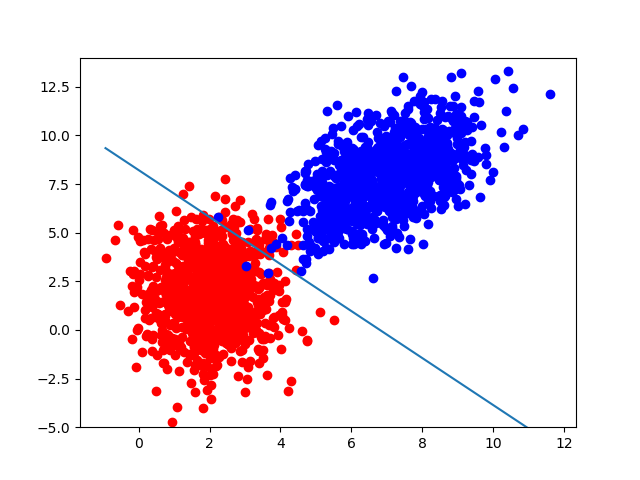
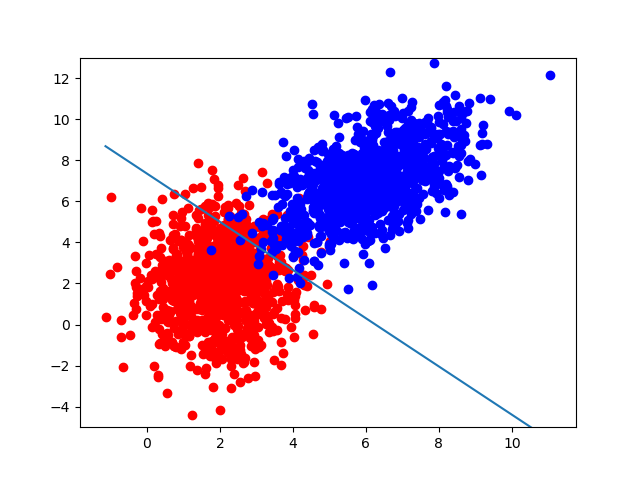
fix

diff --git a/scripts/create_data.py b/scripts/create_data.py
@@ -19,15 +19,9 @@ def main():
     test_sample_num = 200
     data_name = "fake1"
     data1 = np.random.multivariate_normal([2, 2], [[1, 0], [0, 4]], [train_sample_num])
-<<<<<<< HEAD
-    data2 = np.random.multivariate_normal([6, 7], [[2, 2], [1, 3]], [train_sample_num])
-    data3 = np.random.multivariate_normal([2, 2], [[1, 0], [0, 4]], [test_sample_num])
-    data4 = np.random.multivariate_normal([6, 7], [[2, 2], [1, 3]], [test_sample_num])
-=======
     data2 = np.random.multivariate_normal([7, 8], [[2, 2], [1, 3]], [train_sample_num])
     data3 = np.random.multivariate_normal([2, 2], [[1, 0], [0, 4]], [test_sample_num])
     data4 = np.random.multivariate_normal([7, 8], [[2, 2], [1, 3]], [test_sample_num])
->>>>>>> 0e2ad632450092a566aaf6d6ad095f182d9faaac
     pickle.dump(
         {
             "train_set": np.vstack([data1, data2]),

diff --git a/MasterOfOptimizers/optimizer/AdaGrad.py b/MasterOfOptimizers/optimizer/AdaGrad.py
@@ -4,11 +4,7 @@ import numpy as np
 
 
 class AdaGrad(BaseOptimizer):
-<<<<<<< HEAD
-    def __init__(self, lr=0.01, epsilon=1e-8):
-=======
     def __init__(self, lr=0.1, epsilon=1e-8):
->>>>>>> 0e2ad632450092a566aaf6d6ad095f182d9faaac
         self.lr = lr
         self.epsilon = epsilon
         self.Gt = None
